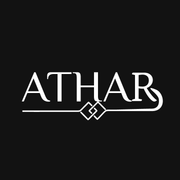
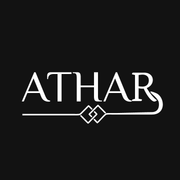
Lower PWA decorative line further under wordmark (v388).

Changed region(s): [[0.1111, 0.4722, 0.9167, 0.6944]]

diff --git a/index.html b/index.html
@@ -12,13 +12,13 @@
   <meta name="apple-mobile-web-app-status-bar-style" content="black-translucent">
   <meta name="apple-mobile-web-app-title" content="ATHAR">
   <title>منصة الرصد المتكاملة | Monitoring Platform</title>
-  <link rel="manifest" href="manifest.webmanifest?v=387">
-  <link rel="icon" type="image/png" sizes="512x512" href="icons/athar-pwa-512-v387.png">
-  <link rel="icon" type="image/png" sizes="192x192" href="icons/athar-pwa-192-v387.png">
-  <link rel="apple-touch-icon" href="icons/athar-pwa-180-v387.png?v=387">
-  <link rel="apple-touch-icon-precomposed" href="icons/athar-pwa-180-v387.png?v=387">
-  <link rel="apple-touch-icon" sizes="180x180" href="icons/athar-pwa-180-v387.png?v=387">
-  <link rel="apple-touch-icon" sizes="512x512" href="icons/athar-pwa-512-v387.png?v=387">
+  <link rel="manifest" href="manifest.webmanifest?v=388">
+  <link rel="icon" type="image/png" sizes="512x512" href="icons/athar-pwa-512-v388.png">
+  <link rel="icon" type="image/png" sizes="192x192" href="icons/athar-pwa-192-v388.png">
+  <link rel="apple-touch-icon" href="icons/athar-pwa-180-v388.png?v=388">
+  <link rel="apple-touch-icon-precomposed" href="icons/athar-pwa-180-v388.png?v=388">
+  <link rel="apple-touch-icon" sizes="180x180" href="icons/athar-pwa-180-v388.png?v=388">
+  <link rel="apple-touch-icon" sizes="512x512" href="icons/athar-pwa-512-v388.png?v=388">
   <link
     href="https://fonts.googleapis.com/css2?family=IBM+Plex+Sans:wght@500;600;700&family=IBM+Plex+Sans+Arabic:wght@300;400;500;600;700&family=JetBrains+Mono:wght@400;600&display=swap"
     rel="stylesheet">
@@ -21335,7 +21335,7 @@
       }
     }
   </style>
-  <meta name="app-build" content="athar-figma-v403-pwa-deco-lower-more">
+  <meta name="app-build" content="athar-figma-v404-pwa-deco-lower-more">
   <!-- مقياس zoom على الجوال يُعطّل لتحسين الأداء — التنسيق عبر CSS الجوال -->
 </head>
 
